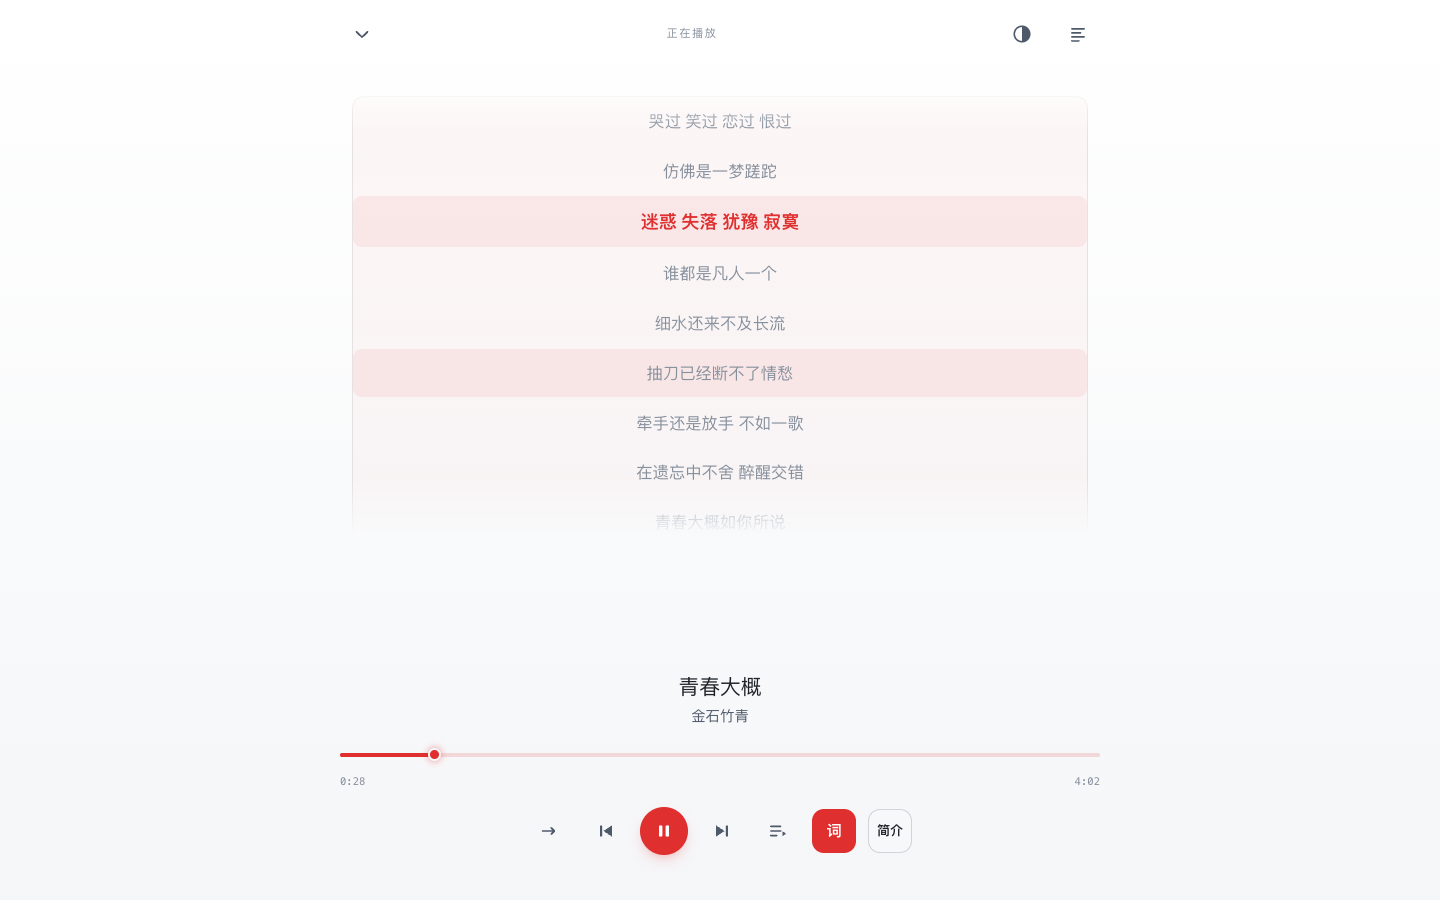
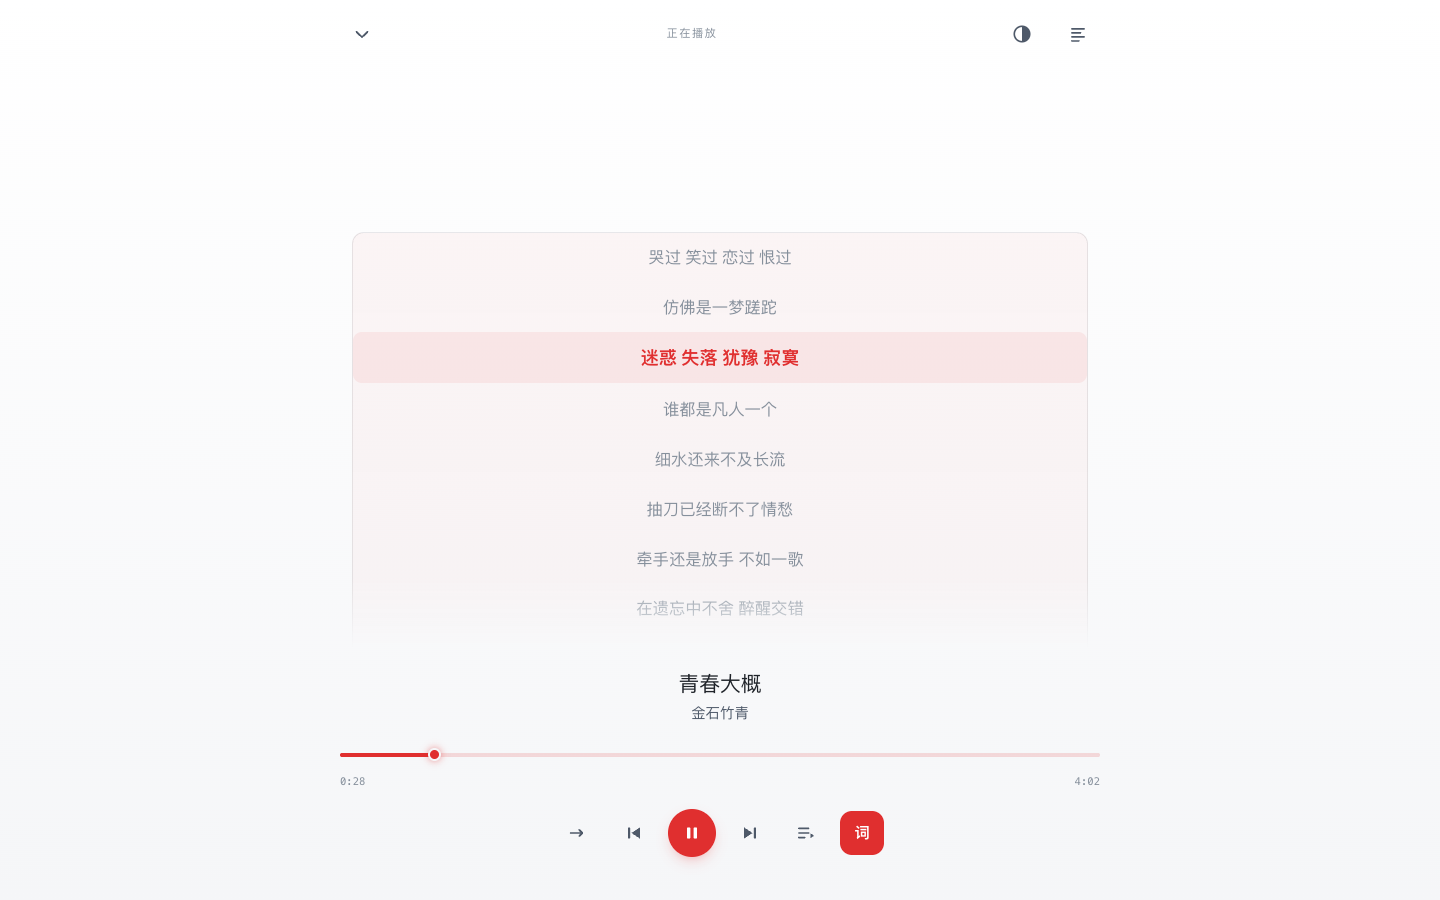
docs+probe: 布局轮本地+线上复测全绿(面板83/83、矩阵396/396、lyrics-sync41/41、browser215/215、verify-live18PASS)，lyrics-sync 探针选择器与队列边界修正、取证入库

diff --git a/docs/PLAYER-CONTROLS.md b/docs/PLAYER-CONTROLS.md
@@ -153,7 +153,7 @@ hover 转 `var(--acc)`。**没有任何单独硬编码的颜色**：
   上下 padding 含 `--safe-t / --safe-b`；`overscroll-behavior:contain` 防滚动链带整页。
 - **首尾居中留白在滚动容器内部**：`LyricsUI._updatePad()` 按**容器自身** `clientHeight`
   算 `padding = (容器高 - 行高) / 2` 写在 `#plLyrics` 的 padding 上（随内容滚动，
-  不把歌名 / 控件推远）；居中计算 likewise 只用容器高度，不用屏幕高度。
+  不把歌名 / 控件推远）；居中计算同样只用容器高度，不用屏幕高度。
   `ResizeObserver` 监听容器：视口变化 / 工具栏展开收起 / 字号切换 / 歌词重渲染后
   下一帧重算留白并重新定位当前行（留白变化产生的 scroll 事件打程序化标记，不误暂停跟随）。
 - 验收：`tools/probe-mobile-layout.mjs`（6 视口 × 纯享/设置 × 三字号 + 视口收缩/恢复 + 横屏封面），
@@ -197,23 +197,28 @@ hover 转 `var(--acc)`。**没有任何单独硬编码的颜色**：
 - 控制区特写截图：`docs/screenshots/controls-{theme}-{viewport}-{bar,full}.png`
 - 面板轮（「词」三态循环 + 字号工具栏 + 逐曲校准 + 简介移除 + 骨架间距）：`tests/player-panels.test.mjs`（16 项）+
   `tools/probe-player-panels.mjs` 真实 Chrome 桌面 1440×900 / 移动 390×844，
-  本地 DEMO **83/83**；截图 `docs/screenshots/panels-{local,live}-*.png`
+  本地 DEMO 与线上生产各 **83/83**；截图 `docs/screenshots/panels-{local,live}-*.png`
   （含纯享态 `-pure.png`：无工具栏、歌词拿满高度），
   报告 `docs/player-panels-results.json`（`alsoRun` 保留另一目标的上一次摘要）
 - **布局矩阵轮（本轮新增）**：`tools/probe-mobile-layout.mjs` 真实 Chrome
   6 视口（390×844 / 360×640 / 412×915 / 320×568 / 844×390 横屏 auto / 844×390 横屏手动手机）
   × 纯享 / 设置 × 字号 s/m/l + 视口收缩 70px 再恢复（模拟 Safari 地址栏）+ 横屏封面态，
-  本地 DEMO **396/396**；每态取证四段间距规格、纵向无重叠、控件与状态行完整在视口内、
+  本地 DEMO 与线上生产各 **396/396**；每态取证四段间距规格、纵向无重叠、控件与状态行完整在视口内、
   当前行居中于歌词容器、首尾留白在滚动容器内部、无横向溢出；
   截图 `docs/screenshots/layout-{local,live}-<视口>-{pure,settings-s/m/l,cover}.png`，
   报告 `docs/player-mobile-layout-results.json`
-- 三态轮复测：`probe-regression` 138/0、`probe-lyrics-sync` local+live 41/41、
+- 复测：`probe-regression` 138/0、`probe-lyrics-sync` local+live **41/41**、
   `npm run browser:check` **215/215**（六组合 + 自动适配 + 手动布局 + 横竖屏）、
-  `verify-live` 18 PASS · 1 N/A · 0 FAIL（2026-11-19，部署 commit 81dc7c3 后；
-  线上 4 首真实歌曲，「另一首歌」为纯文本歌词的《去年夏天》，覆盖无时间轴时校准禁用仍如实）
+  `npm test` 214/214、typecheck 0、生产构建 5 首真实歌曲 0 DEMO + `check-assets` 全过、
+  `verify-live` **18 PASS · 1 N/A · 0 FAIL**（2026-11-20，部署 a89c4d8 后；
+  线上 5 首真实歌曲，「另一首歌」《去年夏天》已接同步 LRC，逐曲校准可用分支同样覆盖）
 - browser-check **旧断言**按现行设计更新（非站点回归）：简介移除后迷你条可见子键计数
   手机 1 / 平板带 6 / 桌面 7；专辑 / 歌单按钮先滚到视口中部再点，避开固定迷你条覆盖区
   （与 probe-player-panels 的 playRow 同一做法）
+- probe-lyrics-sync 三处**探针自身**修正（非站点回归）：C8 不再盲点首页第一个播放键
+  （新增无歌词新歌《偏向》会占据首键）改显式点《青春大概》；C10 验「队列播完=paused」前
+  先把整库队列截到当前曲（首页行点击建整库队列，播完进下一首是诚实行为）；
+  新增 response≥400 监听把资源 404 计入控制台错误（部署切换瞬间的暂态 404 曾误报，复跑已干净）
 - 修过的三个真实布局故障（都有探针守着）：① 歌词容器 content-box 时内部留白 padding
   叠在 flex 分配高度之外 → 工具栏出现时歌词溢出压到歌名（改 border-box + min-height:0）；
   ② 留白按容器自身 clientHeight 算会形成反馈环（内容被钳 0 后 ResizeObserver 不再触发）
